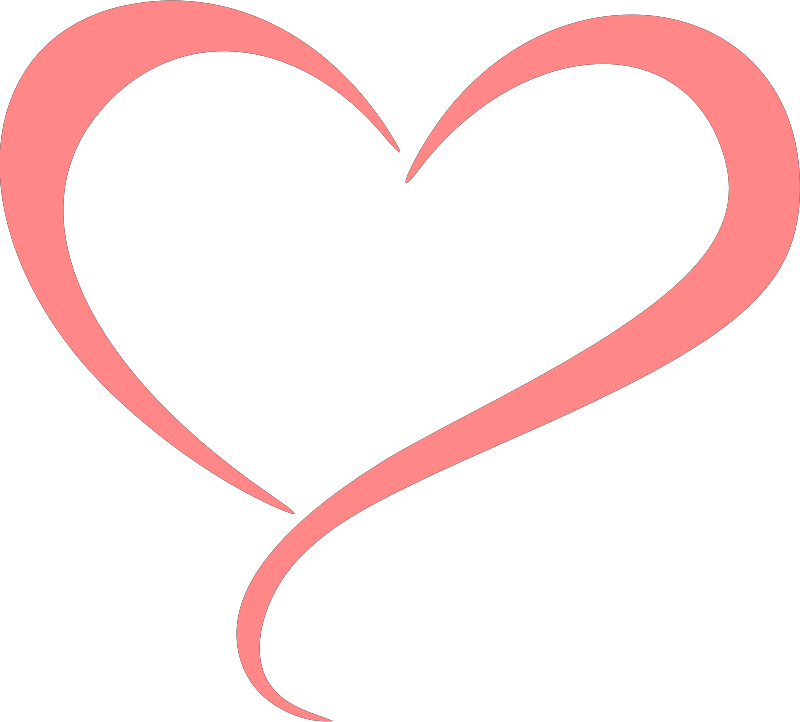
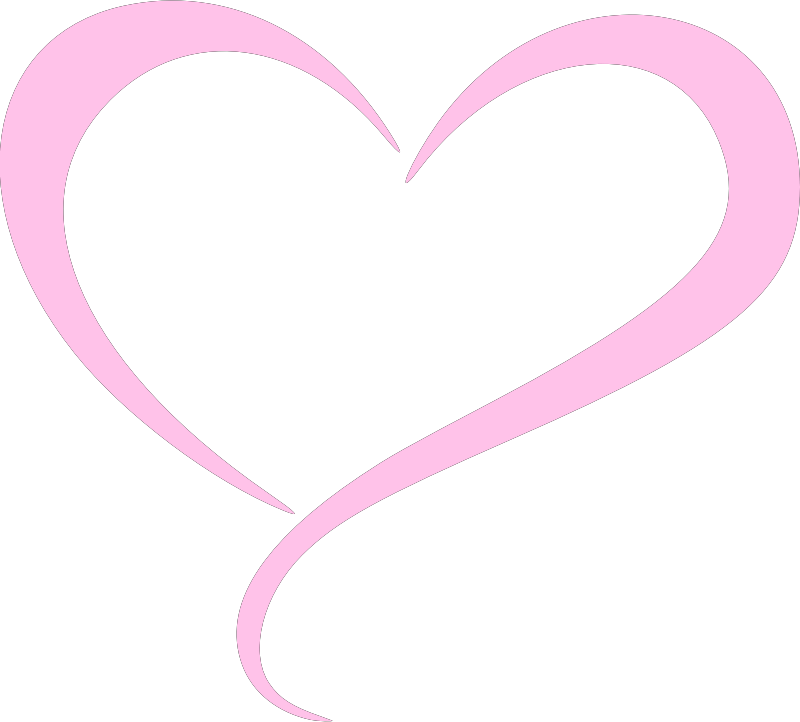
update

Changed region(s): [[0.2812, 0.0, 1.0, 1.0], [0.0, 0.0, 0.5, 0.7008], [0.5, 0.2133, 0.5312, 0.2438]]

diff --git a/frontend/templates/index.html b/frontend/templates/index.html
@@ -1,0 +1,29 @@
+<!DOCTYPE html>
+<html lang="en">
+<head>
+    <meta charset="UTF-8">
+    <!--METADATA-->
+    <meta name="description" content="Soulamare is a website that was developed to help people find soul or meaning in life." />
+    <!--FAVICON-->
+    <link rel="icon" href="../static/img/favicon_64.png">
+    <!--APPLE-->
+    <link rel="apple-touch-icon" href="../static/img/favicon_180.png">
+    <!--ANDROID-->
+    <link rel="manifest" href="../static/manitest.webmanifest">
+    <!--MEDIA QUERY-->
+    <meta name="viewport" content="width=device-width, initial-scale=1.0">
+    <!--FONT-->
+<!--    TODO-->
+    <!--CSS-->
+    <link rel="stylesheet" href="../static/css/styles.css">
+<!--    TODO-->
+    <!--JAVASCRIPT-->
+    <script defer src="../static/js/script.js"></script>
+<!--    TODO-->
+    <!--TITLE-->
+    <title>Soulmare &mdash; Discover your soul</title>
+</head>
+<body>
+
+</body>
+</html>

diff --git a/frontend/static/README.md b/frontend/static/README.md
@@ -1,0 +1,22 @@
+### Colors:
+![](../data/pallete1.png)
+```
+#524a4e;
+#fdeff4;
+#ffc0d3;
+#ff5c8d;
+```
+![](../data/pallete2.png)
+```
+#fff0f8;
+#ffc2e9;
+#cca2e1;
+#543e5c;
+```
+![](../data/pallete3.png)
+```
+#f3c5c5;
+#c1a3a3;
+#886f6f;
+#694e4e;
+```
